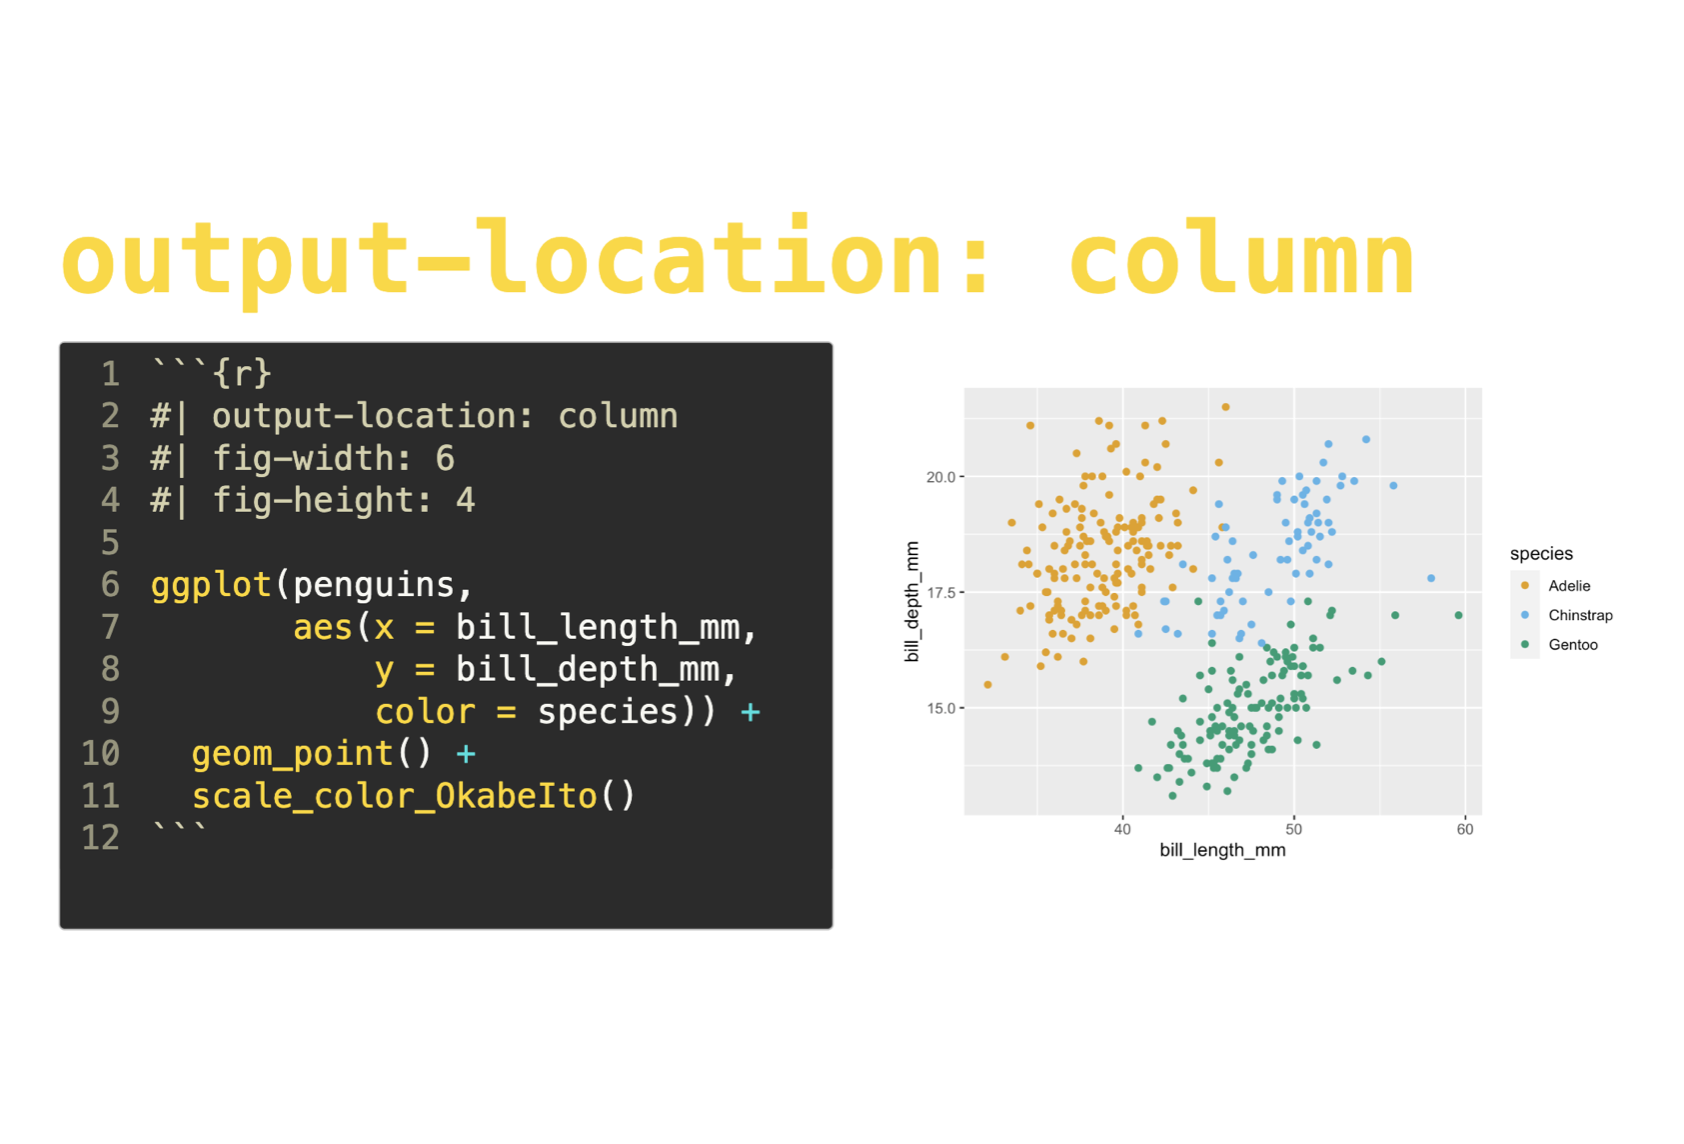
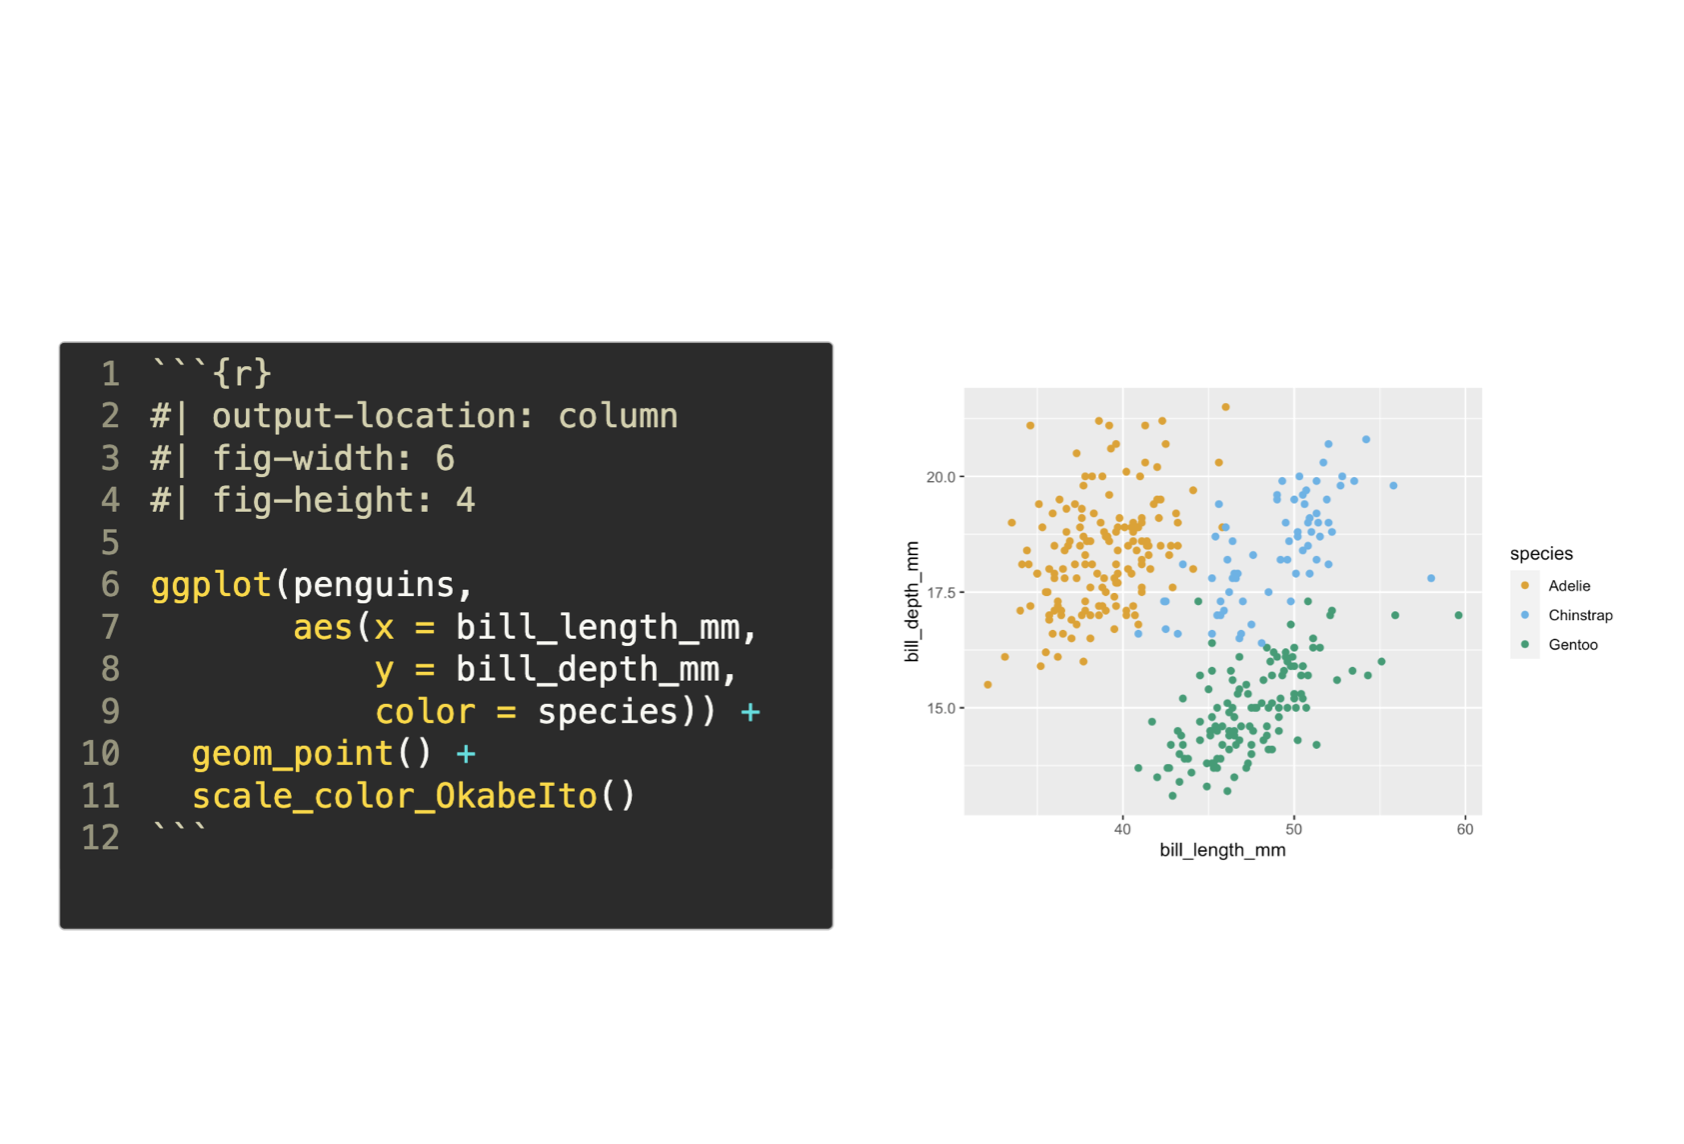
Deploying to gh-pages from @ mine-cetinkaya-rundel/quarto-tip-a-day@35ef2e054330564809a1842480e4180ac904d2f0 🚀

Changed region(s): [[0.0309, 0.1836, 0.5867, 0.2753], [0.6176, 0.1836, 0.8646, 0.2753]]

diff --git a/index.html b/index.html
@@ -174,11 +174,11 @@ ul.task-list{list-style: none;}
     </div>
 </div>
 <div class="list grid quarto-listing-cols-3">
-<div class="g-col-1" data-index="0" data-categories="execution,code,layout" data-listing-date-sort="1656720000000" data-listing-file-modified-sort="1656781980511" data-listing-reading-time-sort="0.89">
+<div class="g-col-1" data-index="0" data-categories="execution,code,layout" data-listing-date-sort="1656720000000" data-listing-file-modified-sort="1656782267153" data-listing-reading-time-sort="0.89">
 <a href="./posts/05-output-location/index.html" class="quarto-grid-link">
 <div class="quarto-grid-item card h-100 card-left">
 <p class="card-img-top">
-<img src="./posts/05-output-location/featured.png" class="thumbnail-image card-img" style="height: 150px;" alt="Slide with the title output-location: column. Content is presented in two columns. On the left is the code, which has the chunk options output-location: column as well as fig-width: 6 and fig-height: 4. The code uses ggplot2 to create a scatterplot of penguin bill depth vs. length, colored by species. On the right is output showing this plot.">
+<img src="./posts/05-output-location/featured.png" class="thumbnail-image card-img" style="height: 150px;" alt="Slide with content is presented in two columns. On the left is the code, which has the chunk options output-location: column as well as fig-width: 6 and fig-height: 4. The code uses ggplot2 to create a scatterplot of penguin bill depth vs. length, colored by species. On the right is output showing this plot.">
 </p>
 <div class="card-body post-contents">
 <h5 class="no-anchor card-title listing-title">
@@ -196,7 +196,7 @@ Jul 2, 2022
 </div>
 </a>
 </div>
-<div class="g-col-1" data-index="1" data-categories="includes" data-listing-date-sort="1656633600000" data-listing-file-modified-sort="1656781980507" data-listing-reading-time-sort="1.2">
+<div class="g-col-1" data-index="1" data-categories="includes" data-listing-date-sort="1656633600000" data-listing-file-modified-sort="1656782267153" data-listing-reading-time-sort="1.2">
 <a href="./posts/04-include/index.html" class="quarto-grid-link">
 <div class="quarto-grid-item card h-100 card-left">
 <p class="card-img-top">
@@ -218,7 +218,7 @@ Jul 1, 2022
 </div>
 </a>
 </div>
-<div class="g-col-1" data-index="2" data-categories="execution" data-listing-date-sort="1656547200000" data-listing-file-modified-sort="1656781980507" data-listing-reading-time-sort="1.525">
+<div class="g-col-1" data-index="2" data-categories="execution" data-listing-date-sort="1656547200000" data-listing-file-modified-sort="1656782267153" data-listing-reading-time-sort="1.525">
 <a href="./posts/03-freeze/index.html" class="quarto-grid-link">
 <div class="quarto-grid-item card h-100 card-left">
 <p class="card-img-top">
@@ -240,7 +240,7 @@ Jun 30, 2022
 </div>
 </a>
 </div>
-<div class="g-col-1" data-index="3" data-categories="teaching,documentation" data-listing-date-sort="1656460800000" data-listing-file-modified-sort="1656781980507" data-listing-reading-time-sort="0.58">
+<div class="g-col-1" data-index="3" data-categories="teaching,documentation" data-listing-date-sort="1656460800000" data-listing-file-modified-sort="1656782267149" data-listing-reading-time-sort="0.58">
 <a href="./posts/02-fenced-echo/index.html" class="quarto-grid-link">
 <div class="quarto-grid-item card h-100 card-left">
 <p class="card-img-top">
@@ -262,7 +262,7 @@ Jun 29, 2022
 </div>
 </a>
 </div>
-<div class="g-col-1" data-index="4" data-categories="tables" data-listing-date-sort="1656374400000" data-listing-file-modified-sort="1656781980507" data-listing-reading-time-sort="0.23">
+<div class="g-col-1" data-index="4" data-categories="tables" data-listing-date-sort="1656374400000" data-listing-file-modified-sort="1656782267149" data-listing-reading-time-sort="0.23">
 <a href="./posts/01-side-by-side-tables/index.html" class="quarto-grid-link">
 <div class="quarto-grid-item card h-100 card-left">
 <p class="card-img-top">

diff --git a/posts/01-side-by-side-tables/index.html b/posts/01-side-by-side-tables/index.html
@@ -236,12 +236,12 @@ code span.wa { color: #60a0b0; font-weight: bold; font-style: italic; } /* Warni
 <span id="cb1-11"><a href="#cb1-11" aria-hidden="true" tabindex="-1"></a><span class="co"># table on the right</span></span>
 <span id="cb1-12"><a href="#cb1-12" aria-hidden="true" tabindex="-1"></a><span class="fu">kable</span>(<span class="fu">head</span>(cars))</span>
 <span id="cb1-13"><a href="#cb1-13" aria-hidden="true" tabindex="-1"></a><span class="in">```</span></span></code><button title="Copy to Clipboard" class="code-copy-button"><i class="bi"></i></button></pre></div>
-<div id="tbl-anonymous-730211" class="cell tbl-parent quarto-layout-panel anchored">
+<div id="tbl-anonymous-1117001" class="cell tbl-parent quarto-layout-panel anchored">
 <div class="panel-caption table-caption">
 <p>Two tables</p>
 </div>
 <div class="quarto-layout-row quarto-layout-valign-top">
-<div id="tbl-anonymous-730211-1" class="quarto-layout-cell quarto-layout-cell-subref anchored" data-ref-parent="tbl-anonymous-730211" style="flex-basis: 50.0%;justify-content: center;">
+<div id="tbl-anonymous-1117001-1" class="quarto-layout-cell quarto-layout-cell-subref anchored" data-ref-parent="tbl-anonymous-1117001" style="flex-basis: 50.0%;justify-content: center;">
 <table class="table table-sm table-striped">
 <caption>mtcars</caption>
 <thead>
@@ -292,7 +292,7 @@ code span.wa { color: #60a0b0; font-weight: bold; font-style: italic; } /* Warni
 </tbody>
 </table>
 </div>
-<div id="tbl-anonymous-730211-2" class="quarto-layout-cell quarto-layout-cell-subref anchored" data-ref-parent="tbl-anonymous-730211" style="flex-basis: 50.0%;justify-content: center;">
+<div id="tbl-anonymous-1117001-2" class="quarto-layout-cell quarto-layout-cell-subref anchored" data-ref-parent="tbl-anonymous-1117001" style="flex-basis: 50.0%;justify-content: center;">
 <table class="table table-sm table-striped">
 <caption>Just cars</caption>
 <thead>

diff --git a/posts/05-output-location/index.html b/posts/05-output-location/index.html
@@ -64,7 +64,7 @@ ul.task-list{list-style: none;}
 <meta name="twitter:creator" content="@quarto_pub">
 <meta name="twitter:image-height" content="600">
 <meta name="twitter:image-width" content="1200">
-<meta name="twitter:image:alt" content="Slide with the title output-location: column. Content is presented in two columns. On the left is the code, which has the chunk options output-location: column as well as fig-width: 6 and fig-height: 4. The code uses ggplot2 to create a scatterplot of penguin bill depth vs. length, colored by species. On the right is output showing this plot.">
+<meta name="twitter:image:alt" content="Slide with content is presented in two columns. On the left is the code, which has the chunk options output-location: column as well as fig-width: 6 and fig-height: 4. The code uses ggplot2 to create a scatterplot of penguin bill depth vs. length, colored by species. On the right is output showing this plot.">
 <meta name="twitter:card" content="summary_large_image">
 </head>
 
